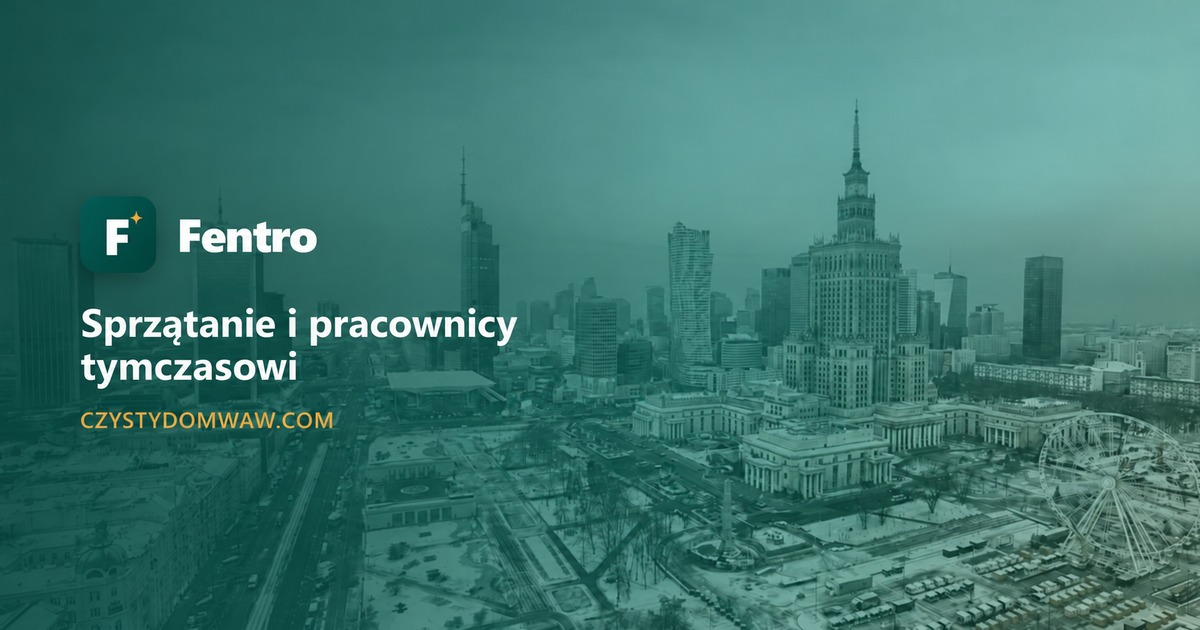
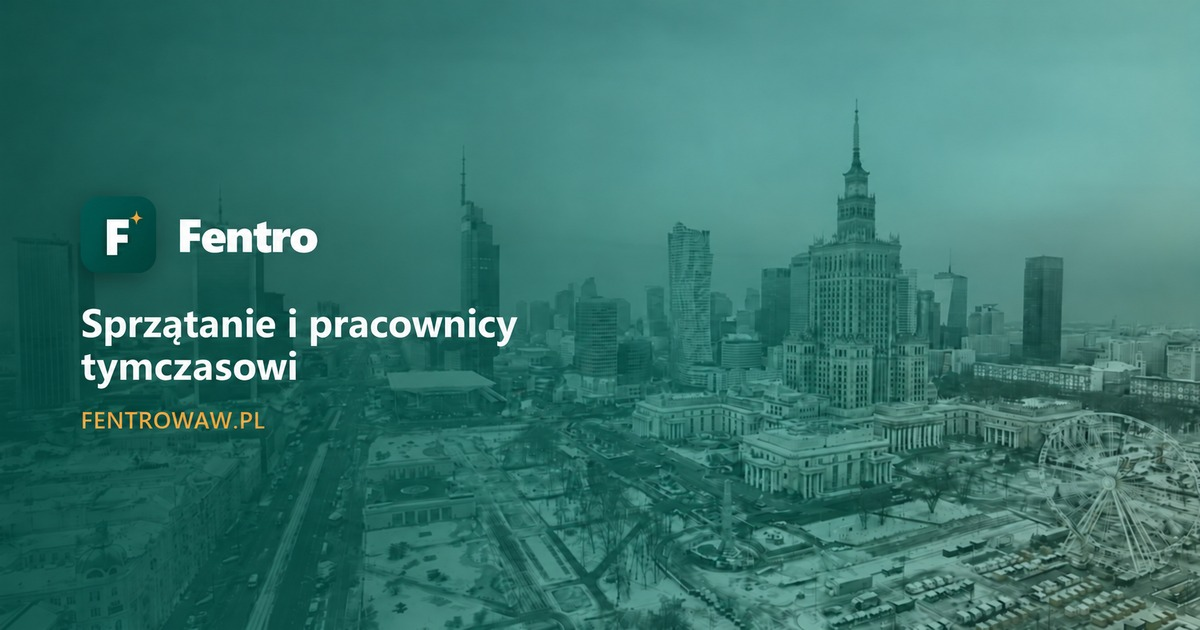
Move Fentro site to fentrowaw.pl

diff --git a/src/_data/i18n.js b/src/_data/i18n.js
@@ -205,7 +205,7 @@ export default {
     privacyPage: {
       title: "Polityka prywatności",
       intro:
-        "Niniejsza polityka prywatności wyjaśnia, w jaki sposób Fentro sp. z o.o. przetwarza dane osobowe osób korzystających z formularza kontaktowego na stronie czystydomwaw.com, zgodnie z Rozporządzeniem Parlamentu Europejskiego i Rady (UE) 2016/679 (RODO).",
+        "Niniejsza polityka prywatności wyjaśnia, w jaki sposób Fentro sp. z o.o. przetwarza dane osobowe osób korzystających z formularza kontaktowego na stronie fentrowaw.pl, zgodnie z Rozporządzeniem Parlamentu Europejskiego i Rady (UE) 2016/679 (RODO).",
       controllerTitle: "Administrator danych",
       controller:
         "Administratorem danych osobowych jest Fentro sp. z o.o. z siedzibą w Warszawie. Pełne dane rejestrowe (adres siedziby, NIP, REGON) udostępniamy na żądanie pod adresem e-mail podanym w sekcji kontaktowej.",
@@ -448,7 +448,7 @@ export default {
     privacyPage: {
       title: "Політика конфіденційності",
       intro:
-        "Ця політика конфіденційності пояснює, як Fentro sp. z o.o. обробляє персональні дані осіб, які користуються контактною формою на сайті czystydomwaw.com, відповідно до Регламенту (ЄС) 2016/679 (RODO/GDPR).",
+        "Ця політика конфіденційності пояснює, як Fentro sp. z o.o. обробляє персональні дані осіб, які користуються контактною формою на сайті fentrowaw.pl, відповідно до Регламенту (ЄС) 2016/679 (RODO/GDPR).",
       controllerTitle: "Адміністратор даних",
       controller:
         "Адміністратором персональних даних є Fentro sp. z o.o. з місцезнаходженням у Варшаві. Повні реєстраційні дані (юридична адреса, NIP, REGON) надаються на запит за email-адресою, вказаною в розділі контактів.",
@@ -691,7 +691,7 @@ export default {
     privacyPage: {
       title: "Privacy Policy",
       intro:
-        "This privacy policy explains how Fentro sp. z o.o. processes the personal data of people who use the contact form on czystydomwaw.com, in accordance with Regulation (EU) 2016/679 (GDPR).",
+        "This privacy policy explains how Fentro sp. z o.o. processes the personal data of people who use the contact form on fentrowaw.pl, in accordance with Regulation (EU) 2016/679 (GDPR).",
       controllerTitle: "Data controller",
       controller:
         "The data controller is Fentro sp. z o.o., based in Warsaw. Full registration details (registered address, NIP, REGON) are available on request via the email address listed in the contact section.",
